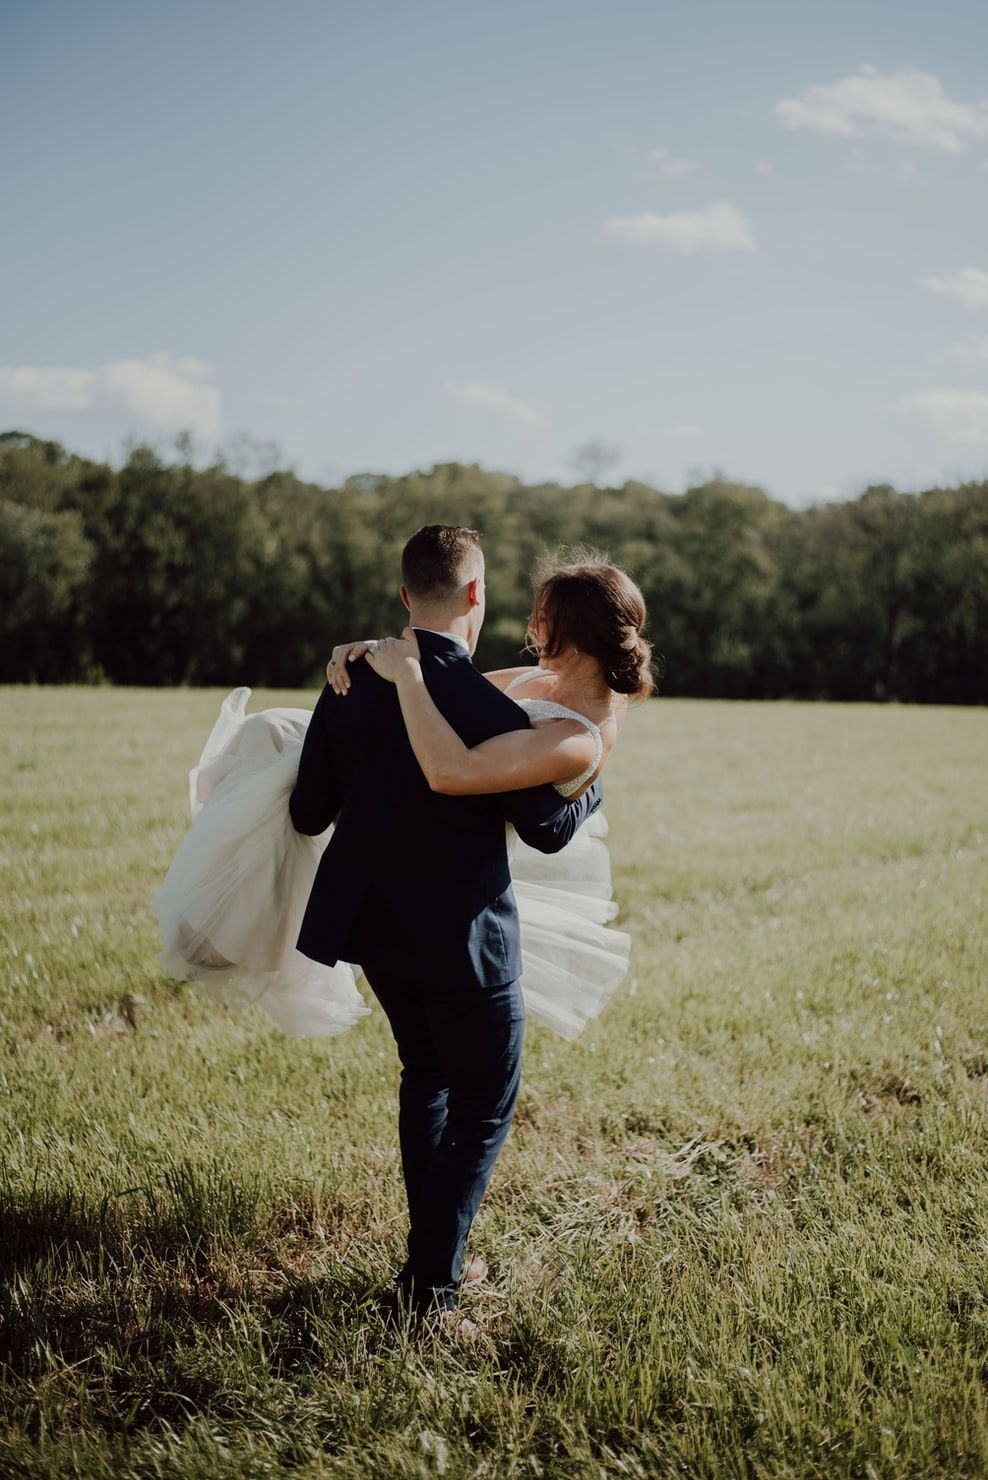
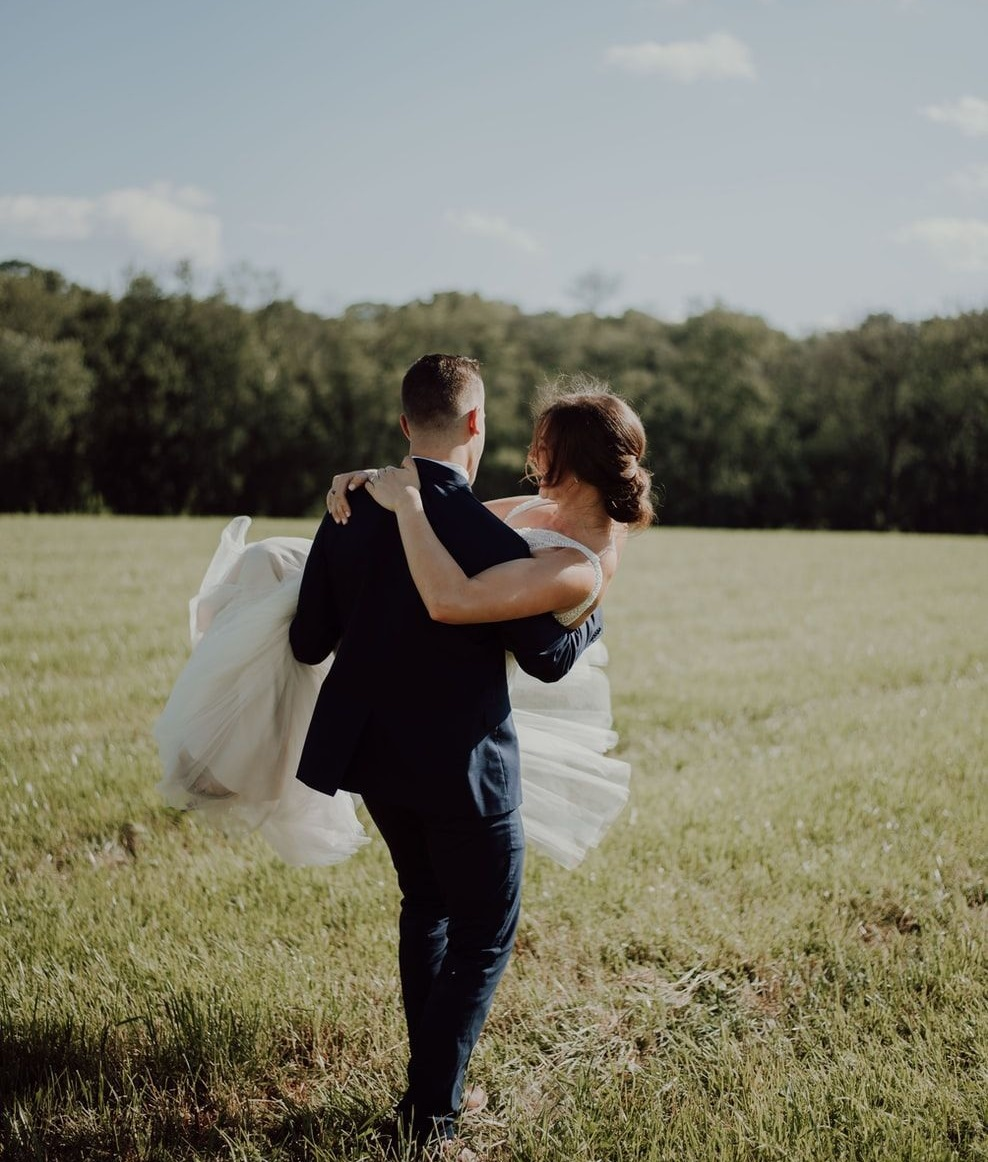
ajout d'info page index

diff --git a/style.css b/style.css
@@ -6,14 +6,16 @@
     padding: 1px;
     list-style: none;
     background: white;
-    color: green;
+    color: black;
 }
 
 .nav_bar a{
     text-decoration:none;
+    text-transform: uppercase;
     font-family: Arial, Helvetica, sans-serif;
     font-size: 14px;
     align-items: center;
+    color: #3b2321;
 }
 
 .left_a{
@@ -36,17 +38,33 @@ li {
     text-align: center;
 
 }
+.index_2 {
+    background-color: white;
+    text-align: center;
+
+}
 
 .title_index_1{
     font-family: roslindale-light;
-    font-size: 112px;
+    font-size: 144px;
+    color: #3b2321;
+}
+.title_index_2{
+    font-family: roslindale-light;
+    font-size: 96px;
     color: #3b2321;
 }
 
 .image1{
     border-top-left-radius: 300px 300px;
     border-top-right-radius: 300px 300px;
-    width:383px ;
-    height: 419px;
-    display: block;
+    width: 414px ;
+    height: 396px;
+    display: flex;
+}
+
+.image2{
+    width: 392px ;
+    height: 495px;
+    display: flex;
 }

diff --git a/index.php b/index.php
@@ -20,20 +20,36 @@ include 'header.php';
                 <img class="image1" src="/img/men_and_wife_kissing_0a76704d6f.jpeg">
             </div>
             <p>The Perfect Match, agence de Wedding et Event Planner <br> vous accompagne dans la création de vos plus beaux <br>souvenirs, sur Paris et Bordeaux.</p>
-            <img>
-        </section class="index_2">
-        <div>
-                <span>Vous allez</span>
-                <span>vous marier ?</span>
-                <span>La demande tant attendue est arrivée ?</span>
-                <span>Félicitations !</span>
-        </div>
-                <p>Si vous êtes ici, c’est sûrement que vous vous
-                    <br>posez quelques questions à propos de l’organisation de votre grand jour.
-                    <br><strong>Alors vous vous trouvez au bon endroit.</strong>
-                </p>
+            <img class="image2" src="/img/wedding_men_and_wife_68b55d5605.jpeg">
+        </section>
+
+        <section class="index_2">
+            <div class="title_index_2">
+                    <span>Vous allez</span>
+                    <span><strong>vous marier ?</strong></span>
+                    <br>
+                    <span>La demande tant attendue est arrivée ?</span>
+                    <br>
+                    <span>Félicitations !</span>
+            </div>
+            <p>Si vous êtes ici, c’est sûrement que vous vous
+                <br>posez quelques questions à propos de l’organisation de votre grand jour.
+                <br><strong>Alors vous vous trouvez au bon endroit.</strong>
+            </p>
+        </section>
+
+        <section class="index_3">
+            <h2 class="title_index_3">
+                <span>Une agence d'organisation</span><br>
+                <span>d'<strong>évènements</strong>privé</span>
+            </h2>
+            <p>Basée entre Paris et Bordeaux, nous vous proposons de choisir l'évènement <br>
+            de votre choix dans la région qui vous fait envie, afin de satisfaire tous vos <br>
+            rêves.
+            </p>    
+            <button class="button_index_3">EN SAVOIR PLUS</button>    
+        </section>
 
         <section>
-
-        </section class="index_2">
+        </section>
     </body>
